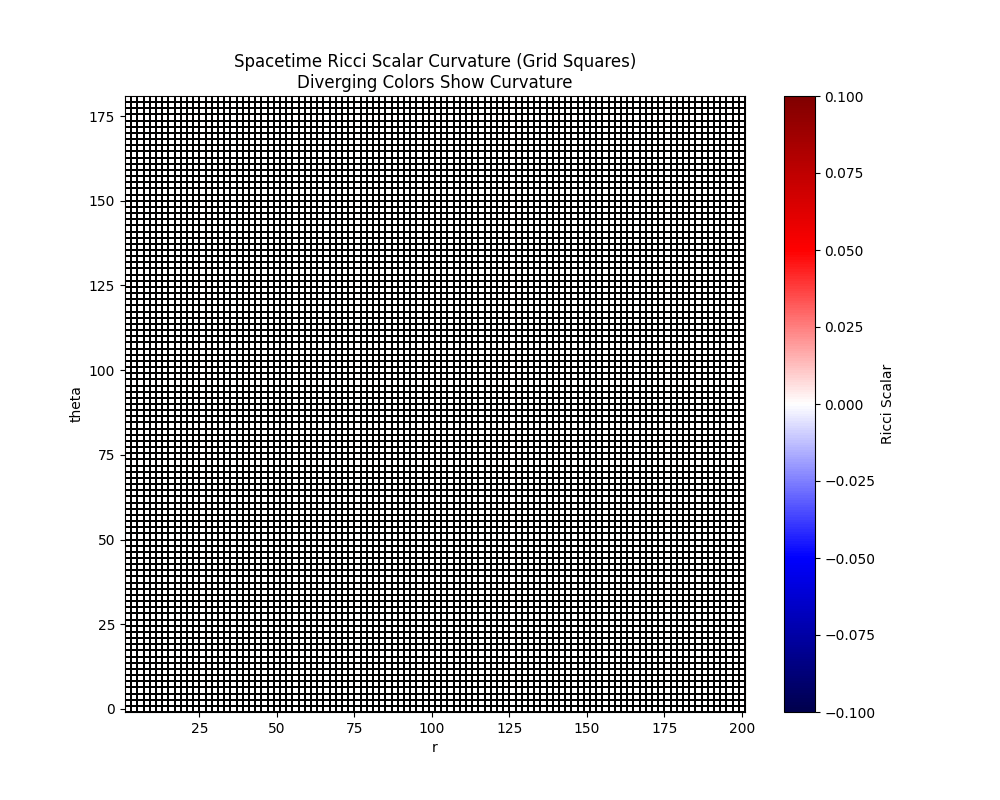
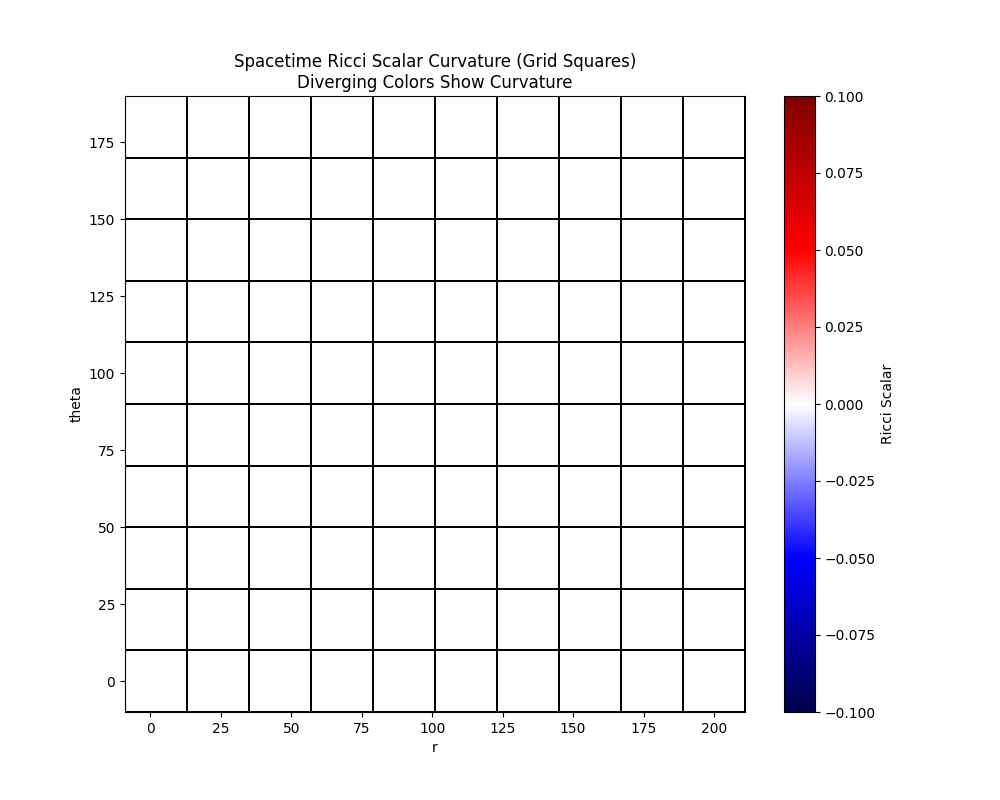
Reduce grid resolution in Ricci scalar plot sample
Changed num_points from 100 to 10 in the plot_ricci_scalar_grid call within the Einstein field equations visualization sample. Also updated the corresponding PNG output. This reduces computation and speeds up visualization for demonstration purposes.

Changed region(s): [[0.093, 0.125, 0.744, 0.9375]]

diff --git a/spacetimeengine/samples/einstein_field_equations_visualization.py b/spacetimeengine/samples/einstein_field_equations_visualization.py
@@ -8,7 +8,7 @@ def main():
 
     # Plot Ricci scalar curvature for Schwarzschild spacetime
     # Adjust x_range and y_range as needed for your coordinates
-    blackhole_spacetime.plot_ricci_scalar_grid(x_range=(2, 200), y_range=(0, 180), x_index=1, y_index=2, num_points=100)
+    blackhole_spacetime.plot_ricci_scalar_grid(x_range=(2, 200), y_range=(0, 180), x_index=1, y_index=2, num_points=10)
 
 if __name__ == "__main__":
     main()
